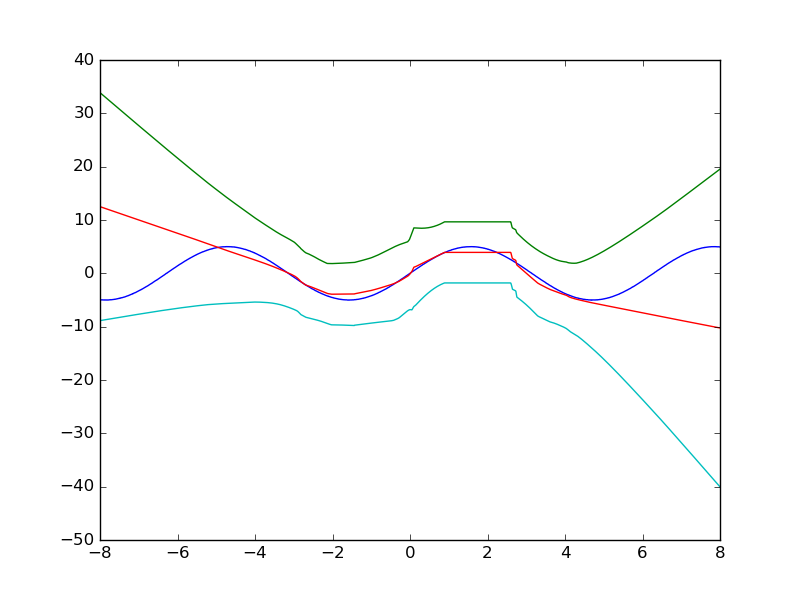
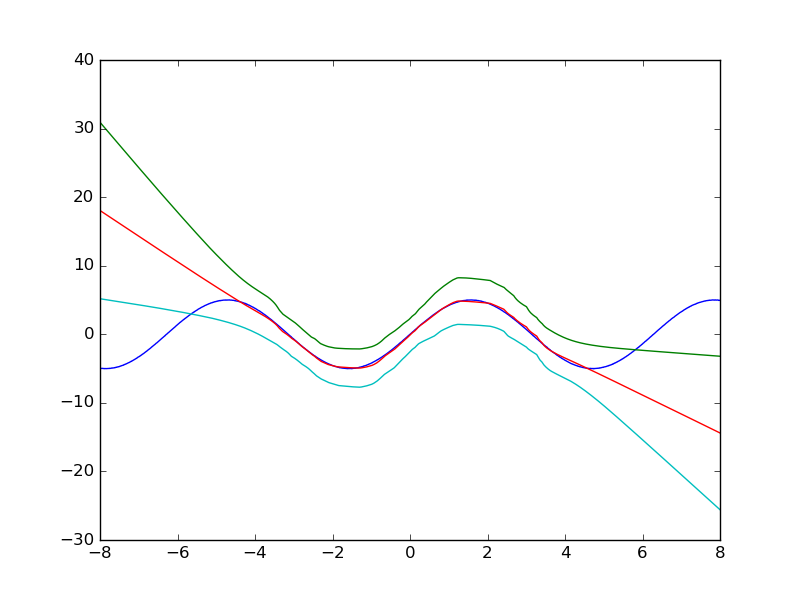
Using standardizing and output transform for dropout as well

diff --git a/train.py b/train.py
@@ -41,11 +41,11 @@ def main():
     parser.add_argument('--decay_rate', type=float, default=0.99,
                         help='Decay rate for learning rate')
     # Dropout rate (keep prob)
-    parser.add_argument('--keep_prob', type=float, default=0.5,
+    parser.add_argument('--keep_prob', type=float, default=0.8,
                         help='Keep probability for dropout')
     args = parser.parse_args()
-    train_ensemble(args)
-    # train_dropout(args)
+    # train_ensemble(args)
+    train_dropout(args)
 
 
 def ensemble_mean_var(ensemble, xs, sess):
@@ -167,10 +167,12 @@ def test_dropout(model, sess, dataLoader, args):
     upper = mean + 3*std
     lower = mean - 3*std
 
-    plt.plot(test_xs, test_ys, 'b-')
-    plt.plot(test_xs, mean, 'r-')
-    plt.plot(test_xs, upper, 'g-')
-    plt.plot(test_xs, lower, 'c-')
+    test_xs_scaled = dataLoader.input_mean + dataLoader.input_std*test_xs
+
+    plt.plot(test_xs_scaled, test_ys, 'b-')
+    plt.plot(test_xs_scaled, mean, 'r-')
+    plt.plot(test_xs_scaled, upper, 'g-')
+    plt.plot(test_xs_scaled, lower, 'c-')
     plt.show()
 
 if __name__ == '__main__':

diff --git a/model.py b/model.py
@@ -100,8 +100,8 @@ class MLPDropoutGaussianRegressor():
 
         with tf.variable_scope(model_scope+'MLP'):
             for i in range(1, len(sizes)):
-                self.weights.append(tf.Variable(tf.random_normal([sizes[i-1], sizes[i]], stddev=0.001), name='weights_'+str(i-1)))
-                self.biases.append(tf.Variable(tf.random_normal([sizes[i]], stddev=0.001), name='biases_'+str(i-1)))
+                self.weights.append(tf.Variable(tf.random_normal([sizes[i-1], sizes[i]], stddev=0.1), name='weights_'+str(i-1)))
+                self.biases.append(tf.Variable(tf.random_normal([sizes[i]], stddev=0.1), name='biases_'+str(i-1)))
 
         x = self.input_data
         for i in range(0, len(sizes)-2):
